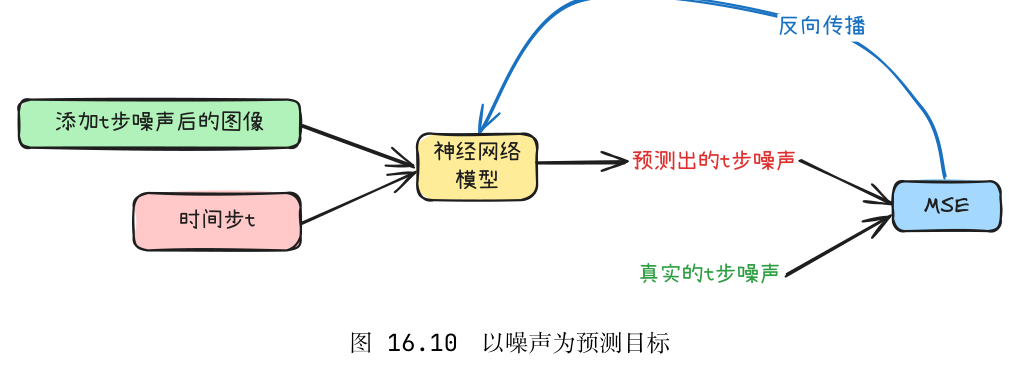
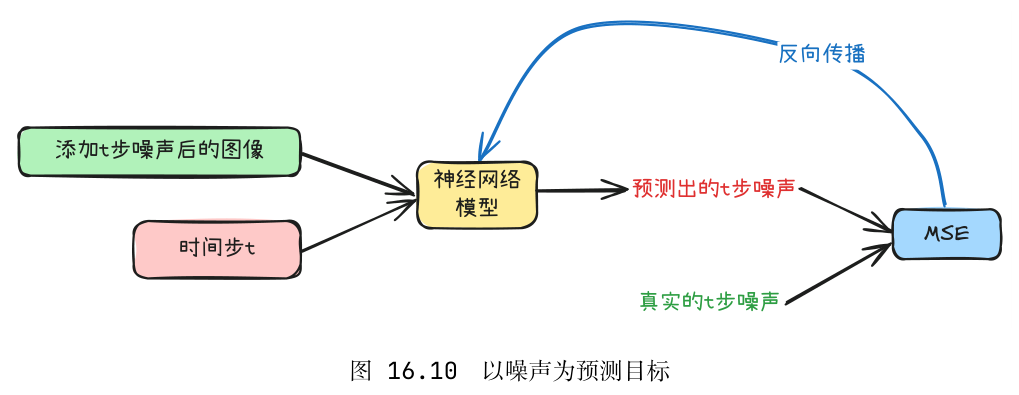
图16.10补全边界(1019x367->1019x395,含完整反向传播箭头与图注);删除与图片重复的伪代码与说明文字4处(训练算法伪代码/训练步骤说明/采样算法伪代码/采样过程说明),文档与站点同步,正文由7486减至6652字符

Changed region(s): [[0.0, 0.0, 1.0, 0.7793], [0.3346, 0.8992, 0.6693, 0.9591], [0.5476, 0.0, 0.578, 0.03]]

diff --git a/llm-tutorial-16-2/index.html b/llm-tutorial-16-2/index.html
@@ -294,15 +294,7 @@ $$</p>
 </ol>
 <figure class="tutorial-figure"><img src="/post-images/tutorial-figs/fig-16-11.png" alt="图 16.11 训练 unet" loading="lazy"><figcaption>图 16.11 训练 unet</figcaption></figure>
 <h4 id="sec-6">16.2.4.2 训练</h4>
-<p><pre><code class="language-text">1 Repeat
-2   x_0 ~ q(x_0)        ▷ 从数据集中抽取一张图片
-3   t ~ Uniform({1, ..., T})  ▷ 从均匀分布中采样一个时间步
-4   ε ~ N(0, I)         ▷ 从正态分布中采样一个噪声
-5   使用梯度下降法，梯度为
-6   ∇_θ || ε - ε_θ(√(α_t) x_0 + √(1 - α_t) ε, t) ||^2   (16.6)
-7 Until 收敛
-</code></pre>
-</p>
+
 <figure class="tutorial-figure"><img src="/post-images/tutorial-figs/fig-16-12.png" alt="图 16.12 U-net 训练算法" loading="lazy"><figcaption>图 16.12 U-net 训练算法</figcaption></figure>
 <p>官方的训练算法如上，下图是一个训练步骤的示意图：</p>
 <ol>
@@ -311,21 +303,8 @@ $$</p>
 </ol>
 <figure class="tutorial-figure"><img src="/post-images/tutorial-figs/fig-16-13.png" alt="图 16.13 扩散模型训练步骤" loading="lazy"><figcaption>图 16.13 扩散模型训练步骤</figcaption></figure>
 <h4 id="sec-7">16.2.4.3 反向扩散</h4>
-<p><pre><code class="language-text">1 x_T ~ N(0, I)          ▷ 从高斯分布中采样一张纯噪声图片
-2 for t = T, ..., 1 do
-3   z ~ N(0, I) if t &gt; 1, else z = 0
-4   x_{t-1} = 1/√(α_t) (x_t - (1-α_t)/√(1-ᾱ_t) ε_θ(x_t, t)) + σ_t z
-                  ▷ σ_t 一般取 √(β_t)
-5 end for
-6 return x_0
-</code></pre>
-</p>
+
 <figure class="tutorial-figure"><img src="/post-images/tutorial-figs/fig-16-14.png" alt="图 16.14 采样算法（去噪算法，反向扩散算法）" loading="lazy"><figcaption>图 16.14 采样算法（去噪算法，反向扩散算法）</figcaption></figure>
-<p>反向扩散/去噪/采样</p>
-<ol>
-<li>采样一个高斯噪声</li>
-<li>迭代的从图像中去除噪声</li>
-</ol>
 <figure class="tutorial-figure"><img src="/post-images/tutorial-figs/fig-16-15.png" alt="图 16.15 扩散模型的采样过程" loading="lazy"><figcaption>图 16.15 扩散模型的采样过程</figcaption></figure>
 <p>请注意，在最后一步，我们只是输出学习到的平均值 $\mu_{\theta}(x_1, 1)$，而不向其中添加噪声。</p>
 
